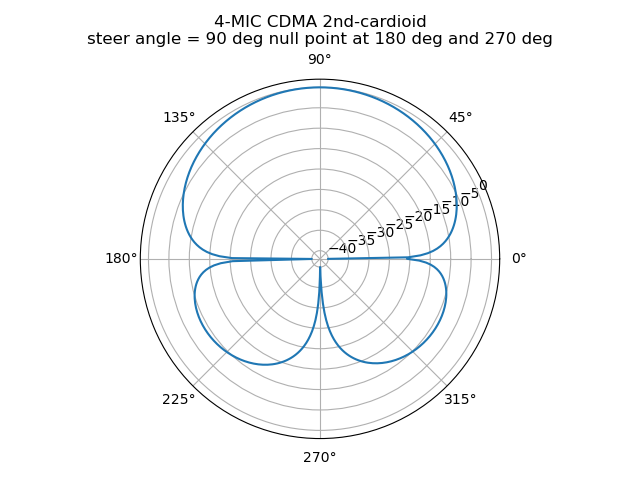
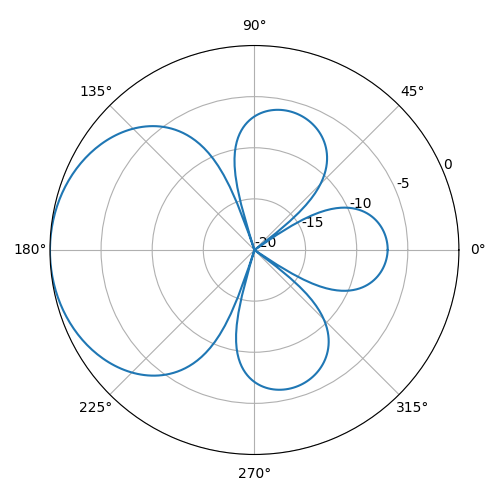
refactor

diff --git a/cdma.py b/cdma.py
@@ -32,11 +32,24 @@ class circular_microphone_arrays():
         self.steer    = np.exp(2j * np.pi * self.r / c \
                                   * _cos_degdif[...,None] * self.freq[None, None])  # [sa_bin x M x f_bin]
 
+    @classmethod
+    def theta_validation(
+        self,
+        theta: float,
+    ) -> float :
+        while theta < 0:
+            theta += 360.
+        while theta >= 360.:
+            theta -= 360.
+        return theta
+
     def get_steer(
         self,
         theta: float = 0    # theta: steer direction (degree)
-        ):
-        rad       = theta / 180. * np.pi
+    ) -> np.ndarray:
+        theta_val = self.theta_validation(theta)
+        print(f'LOG:: get steer from theta = {theta_val}')
+        rad       = theta_val / 180. * np.pi
         tgt_theta = np.argmin(np.abs(self.rad - rad))
         return self.steer[tgt_theta]    # [M x f_bin]
 
@@ -48,66 +61,67 @@ class CDMA():
         self,
         cma         : circular_microphone_arrays,
         sa          : float,                                # steer angle (distortless directgion)
-        symmetric   : np.ndarray,                           # symmetric constrain for the weight
-        sym_b       : np.ndarray                 = None,    # b part of symmetric constrain
+        sym         : np.ndarray                 = None,    # symmetric constrain for the weight, [C, M + 1]
         null_list   : list                       = [],      # list of null point (degree)
+        b           : np.ndarray                 = None,    # b for each point, [len(null_list) + 1]
         mic_mask    : list                       = [],      # list of microphone mask
-        min_norm    : bool                       = False,   # use minimum-norm filter
         ) -> None:
         self.cma        = cma
         self.null_list  = null_list
         self.mic_mask   = mic_mask
-        
-        _sy = symmetric[None, :, None] if len(symmetric.shape) == 1 else symmetric[..., None]
-        _sy = _sy.repeat(cma.f_bin, axis=-1).astype(np.float)
-        _eq = []
-        for d in [sa,] + self.null_list:
-            _eq.append(self.cma.get_steer(d))
-        _eq         = np.array(_eq)
-        _eq         = np.concatenate((_eq, _sy), axis=0)            # [N x M x f_bin], N : number of constrains
+        self.sa         = sa + 360 if sa < 0 else sa
+        self.b          = b
+        self.sym        = self.build_sym(self.cma.M, self.sa) if sym is None else sym
+
+        self.calc_weight()
+    
+    def calc_weight(self):
+        _eq     = np.array([self.cma.get_steer(d).conjugate() for d in [self.sa,] + self.null_list])
+        _b      = np.zeros((_eq.shape[0], 1, _eq.shape[-1]))    # [N x 1 x f_bin]
+        _b[0]   = 1.
+
+        if self.b is not None:
+            _b  = self.null_b[:, None, None].repeat(_eq.shape[-1], axis=-1)
+
+        if self.sym is not None:
+            _sy = self.sym[..., None].repeat(self.cma.f_bin, axis=-1).astype(np.float)
+            _eq = np.concatenate((_eq, _sy[..., :-1, :]), axis=0)  # [N x M x f_bin], N : number of constrains
+            _b  = np.concatenate((_b, _sy[..., [-1], :]), axis=0)  # [N x 1 x f_bin], N : number of constrains
+
+        # DC part
         _eq[...,0]  = np.eye(self.cma.M)[:_eq.shape[0]]
-        _b          = np.zeros((_eq.shape[0], 1, _eq.shape[-1]))    # [N x 1 x f_bin]
-        _b[0]       = 1.
         _b[...,0]   = 1. / self.cma.M
 
-        if sym_b is not None:
-            n_sym_b = sym_b.shape[-1]
-            for i in range(n_sym_b):
-                _b[- n_sym_b + i] = sym_b[i]
-        
-        if len(mic_mask) > 0:
-            _eq = _eq[mic_mask]
-            _eq = _eq[:, mic_mask]
-            _b  = _b[mic_mask]
-
-        if min_norm:
+        # weight, [f_bin x M x 1]
+        if _eq.shape[0] < _eq.shape[1]:
+            # NMS
             _mAA        = np.einsum('ijk,ljk->kil', _eq, _eq.conjugate())  # [f_bin x N x N]
             self.weight = np.einsum('ijk,kil,lnk->kjn', _eq.conjugate(), np.linalg.inv(_mAA), _b)
+
+        elif _eq.shape[0] == _eq.shape[1]:
+            self.weight = np.linalg.solve(_eq.transpose(2, 0, 1), _b.transpose(2, 0, 1))
+
         else:
-            # [f_bin x M x 1]
-            self.weight = np.linalg.solve(_eq.conjugate().transpose(2, 0, 1), _b.transpose(2, 0, 1))
-    
+            raise NotImplemented
+
+    @classmethod
+    def build_sym(
+        self,
+        M           : int,              # M         : number of microphones
+        sa          : float = 0,        # steer angle (distortless directgion)
+    ) -> np.ndarray:
+        sa       = sa + 360 if sa < 0 else sa
+        deg_cand = np.array([v * 360 / M for v in range(M)])
+        tgt_dir  = np.argmin(np.abs(deg_cand - sa))
+
+        _sy = np.zeros((M // 2 - 1, M + 1), dtype=np.float)
+        for i in range(1, M // 2):
+            _sy[i - 1, i], _sy[i - 1, M - i] = 1., -1.
+        _sy_r = np.concatenate((np.roll(_sy[:, :-1], shift=tgt_dir, axis=1), _sy[:, [-1]]), axis=1)
+        return _sy_r
+
     def get_weight(self):
         return self.weight
 
-def Beampattern(
-    cma     : circular_microphone_arrays,
-    w       : np.ndarray,                           # [f_bin x M x 1]
-    freq    : int = 0                               # target freq
-):
-    tgt_f_bin = np.argmin(np.abs(cma.freq - freq))
-    # [sa_bin x M] x [M x 1]
-    a_map     = np.einsum('ij,jk->ik', cma.steer[..., tgt_f_bin], w[tgt_f_bin].conjugate())
-    plt.subplot(1,1,1, polar=True)
-    plt.plot(np.linspace(0, 2 * np.pi, 360), 10 * np.log10(np.abs(a_map).reshape(-1) + 1e-2))
-    plt.title('4-MIC CDMA 2nd-cardioid\nsteer angle = 90 deg null point at 180 deg and 270 deg')
-    plt.tight_layout()
-    plt.savefig('beampattern')
-
 if __name__ == "__main__":
-    cma     = circular_microphone_arrays(M=4)
-    cdma    = CDMA(cma, sa=90, null_list=[225], 
-                   symmetric=np.array([[-1, 0, 1, 0]]),
-                   sym_b=np.array([[0]]), min_norm=True)
-    Beampattern(cma, cdma.get_weight(), freq=1000)
     pass

diff --git a/test.py b/test.py
@@ -1,0 +1,28 @@
+# test code for CDMA
+import numpy as np
+import matplotlib.pyplot as plt
+from cdma import circular_microphone_arrays, CDMA
+
+def Beampattern(
+    cma     : circular_microphone_arrays,
+    w       : np.ndarray,                           # [f_bin x M x 1]
+    freq    : int = 0                               # target freq
+):
+    tgt_f_bin = np.argmin(np.abs(cma.freq - freq))
+    a_map     = np.einsum('ij,jk->ik', cma.steer[..., tgt_f_bin], w[tgt_f_bin].conjugate())
+    plt.figure(figsize=(5,5))
+    plt.subplot(1,1,1, polar=True)
+    plt.plot(np.linspace(0, 2 * np.pi, 360), 10 * np.log10(np.clip(np.abs(a_map).reshape(-1), a_min=1e-2, a_max=None)))
+    plt.ylim((-20, 0))
+    plt.yticks([0, -5, -10, -15, -20], [0, -5, -10, -15, -20])
+    plt.tight_layout()
+
+def test_2ndOrder():
+    sa      = 180
+    cma     = circular_microphone_arrays(M=4)
+    cdma    = CDMA(cma, sa=sa, null_list=[sa + 72, sa + 144])
+    Beampattern(cma, cdma.get_weight(), freq=1000)
+    plt.savefig('beampattern')
+
+if __name__ == '__main__':
+    test_2ndOrder()

diff --git a/README.md b/README.md
@@ -1,29 +1,19 @@
 # CDMA
-Generate weights for Differential Microphone Arrays (CDMA)[1] in python. Allow to design cardioid, supercardioid or hypercardioid beamformer.  
-生成圆阵列DMA算法的波束成形权重，具体设计参考Jacob的Design of circular differential microphone arrays。
+Generate weights for Differential Microphone Arrays (CDMA)[1] in Python.  
+生成圆阵列DMA算法的波束成形权重，具体设计参考Jacob的《Design of circular differential microphone arrays》。  
+  
 ![cardioid2nd](beampattern.png)
 
-## HOW TO USE
+## 2-STEP TO USE:
 ```
 cma     = circular_microphone_arrays(M=4)
-cdma    = CDMA(cma, sa=90, null_list=[180, 270], symmetric=np.array([[-1,0,1, 0]]))
-Beampattern(cma, cdma.get_weight(), freq=1000)
+cdma    = CDMA(cma, sa=180, null_list=[180 + 135])
 ```
-- **2-STEP TO USE:** First, define a `circular_microphone_arrays` base on geometry of your microphone array, eg: `r` for radius (cm), `M` for the number of microphones. For now, only uniform circular array (UCA) is supported.  
-Second, design your CDMA base on your microphone array, including `sa` for steer angle, `null_list` for null point list and `symmetric` for H property.  
-The order of CDMA is depend on `null_list` and `symmetric`.  
-For `symmetric` design, you can see *Section 2.1* and *Section 2.2* in [1] for help.  
-  
-- To build a **Minimum-norm Filter**, which is robust against white noise amplification, use the code below. The formulation of minimum-norm can be found in *Section 7.1* from [1].
-```
-cma     = circular_microphone_arrays(M=4)
-cdma    = CDMA(cma, sa=90, null_list=[225], 
-               symmetric=np.array([[-1, 0, 1, 0]]),
-               sym_b=np.array([[0]]), min_norm=True)
-```
+1) Define `circular_microphone_arrays` base on geometry of your microphone array, eg: `r` for radius (cm), `M` for the number of microphones. For now, only uniform circular array (UCA) is supported.  
+2) Design your CDMA base on your microphone array, including `sa` for steer angle, `null_list` for null point list and `sym` for the symmetry of H.
+The order of CDMA depends on `null_list`. 
+For `sym`, you can see *Section 2.1* and *Section 2.2* in [1] for help.  
 
-## TO-DO
-- mask for microphones  
 
 ## Reference:  
 [1] Benesty, Jacob, Jingdong Chen, and Israel Cohen. Design of circular differential microphone arrays. Vol. 12. Berlin, Germany:: Springer, 2015.
